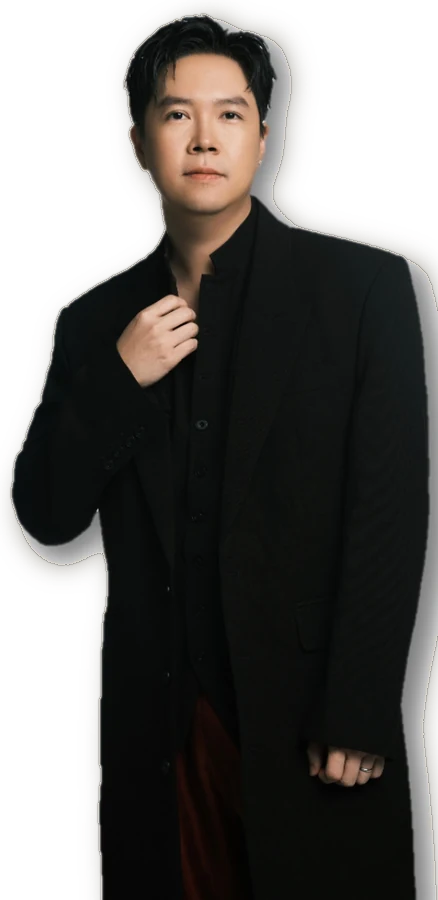
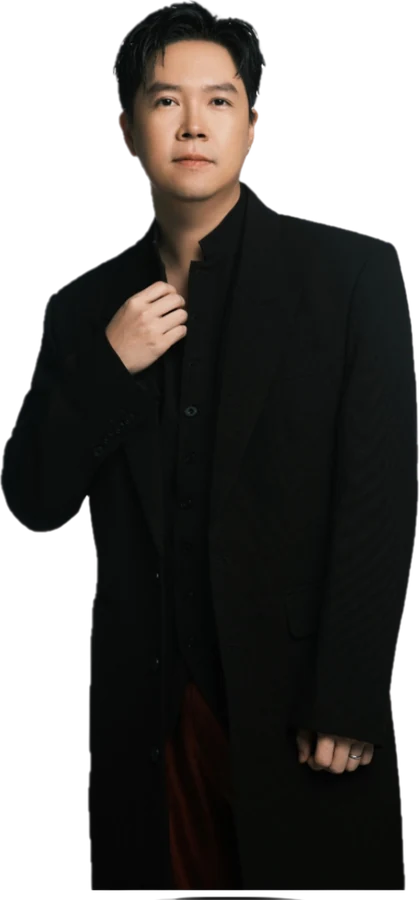
fix(artists): dùng ảnh nghệ sĩ nền trong, chuyển ảnh gốc 12MB ra design/

Changed region(s): [[0.0, 0.0, 1.0, 1.0]]

diff --git a/src/lib/content.ts b/src/lib/content.ts
@@ -81,10 +81,10 @@ export const AGENDA = [
   { time: "20:00", title: "Party", desc: "Đêm nhạc", art: "el-champagne-glasses" },
 ] as const;
 
-/** Nghệ sĩ khách mời. Ảnh cắt từ design/singers.png (nền trắng). */
+/** Nghệ sĩ khách mời. Ảnh cắt từ design/singer-cutout.png (nền trong). */
 export const ARTISTS = [
-  { name: "Lê Hiếu", src: "/assets/singer-le-hieu.webp", w: 438, h: 900 },
-  { name: "Quốc Thiên", src: "/assets/singer-quoc-thien.webp", w: 465, h: 900 },
+  { name: "Lê Hiếu", src: "/assets/singer-le-hieu.webp", w: 419, h: 900 },
+  { name: "Quốc Thiên", src: "/assets/singer-quoc-thien.webp", w: 512, h: 900 },
 ];
 
 export const DRESSCODE = {

diff --git a/src/components/sections/Artists.tsx b/src/components/sections/Artists.tsx
@@ -5,8 +5,8 @@ import { Reveal } from "@/components/Reveal";
 import { ARTISTS } from "@/lib/content";
 
 /**
- * Nghệ sĩ khách mời của đêm nhạc. Ảnh cắt từ design/singers.png, nền trắng
- * đã tách thành trong suốt (giữ bóng đổ), chân ảnh vuốt mờ thay vì cắt ngang.
+ * Nghệ sĩ khách mời của đêm nhạc. Ảnh cắt từ design/singer-cutout.png (nền
+ * trong suốt sẵn), chân ảnh vuốt mờ thay vì cắt ngang.
  */
 export function Artists() {
   return (
